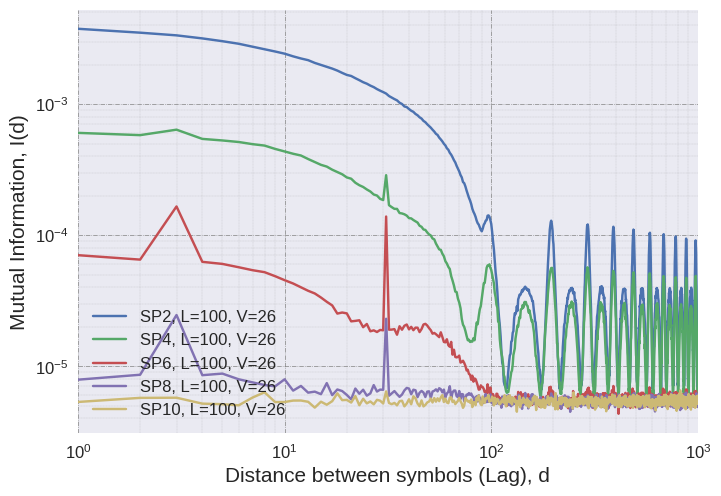
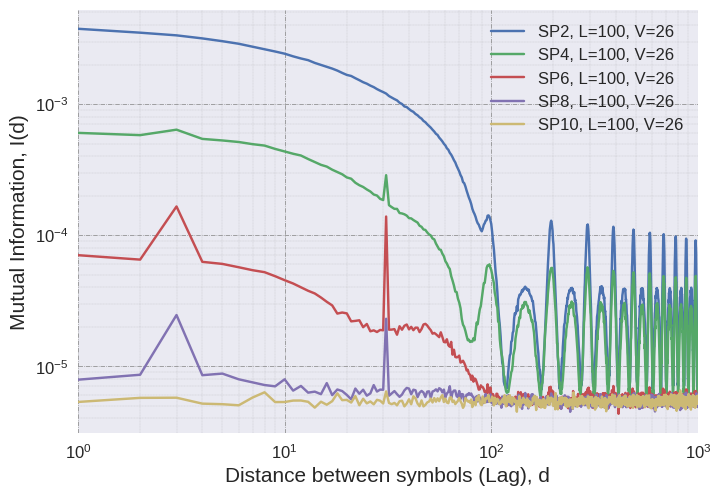
UP

Changed region(s): [[0.6713, 0.0302, 0.9459, 0.2722], [0.1221, 0.7258, 0.3967, 0.8468], [0.1221, 0.6048, 0.3967, 0.6956]]

diff --git a/paper_related/spk/plot_sp.py b/paper_related/spk/plot_sp.py
@@ -87,6 +87,6 @@ with plt.style.context(('seaborn')):
     # ax.set_ylim(ax.get_ylim()[0]-1e-7, ax.get_ylim()[1])
     ax.set_xlabel('Distance between symbols (Lag), d', fontsize=15)
     ax.set_ylabel('Mutual Information, I(d)', fontsize=15)
-    lgd = ax.legend(loc='lower left', shadow=True, fancybox=True, numpoints=1, prop={'size': 12})
+    lgd = ax.legend(loc='upper right', shadow=True, fancybox=True, numpoints=1, prop={'size': 12})
     plt.savefig('spk_k1', bbox_extra_artists=(lgd,), bbox_inches='tight')
     plt.show()
